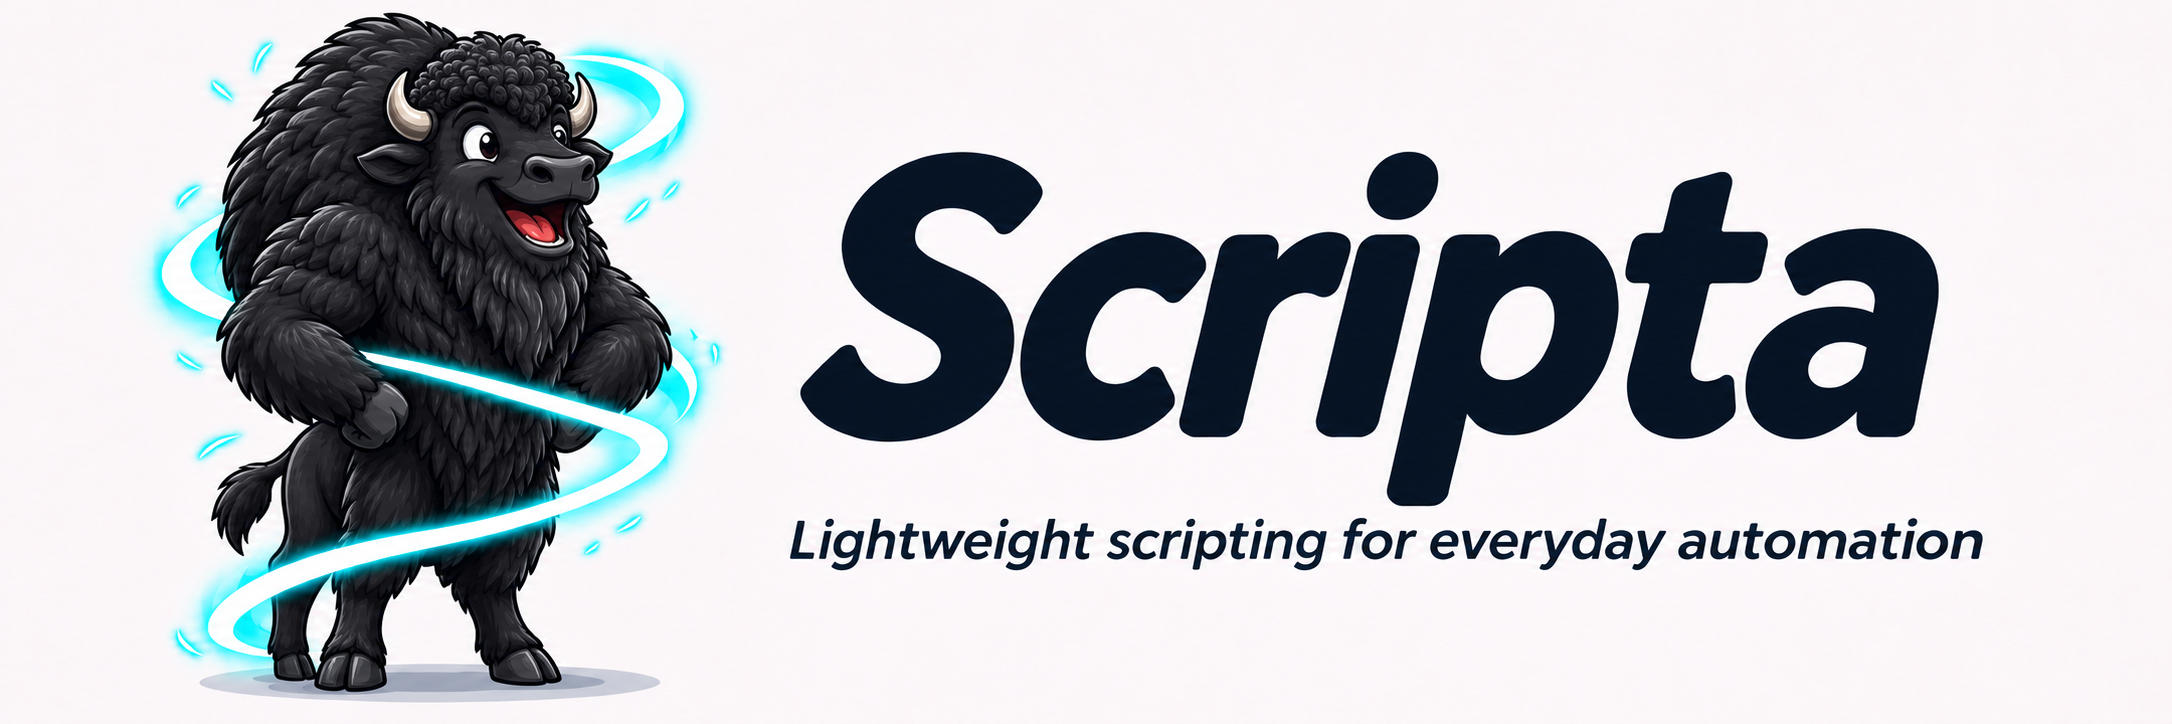
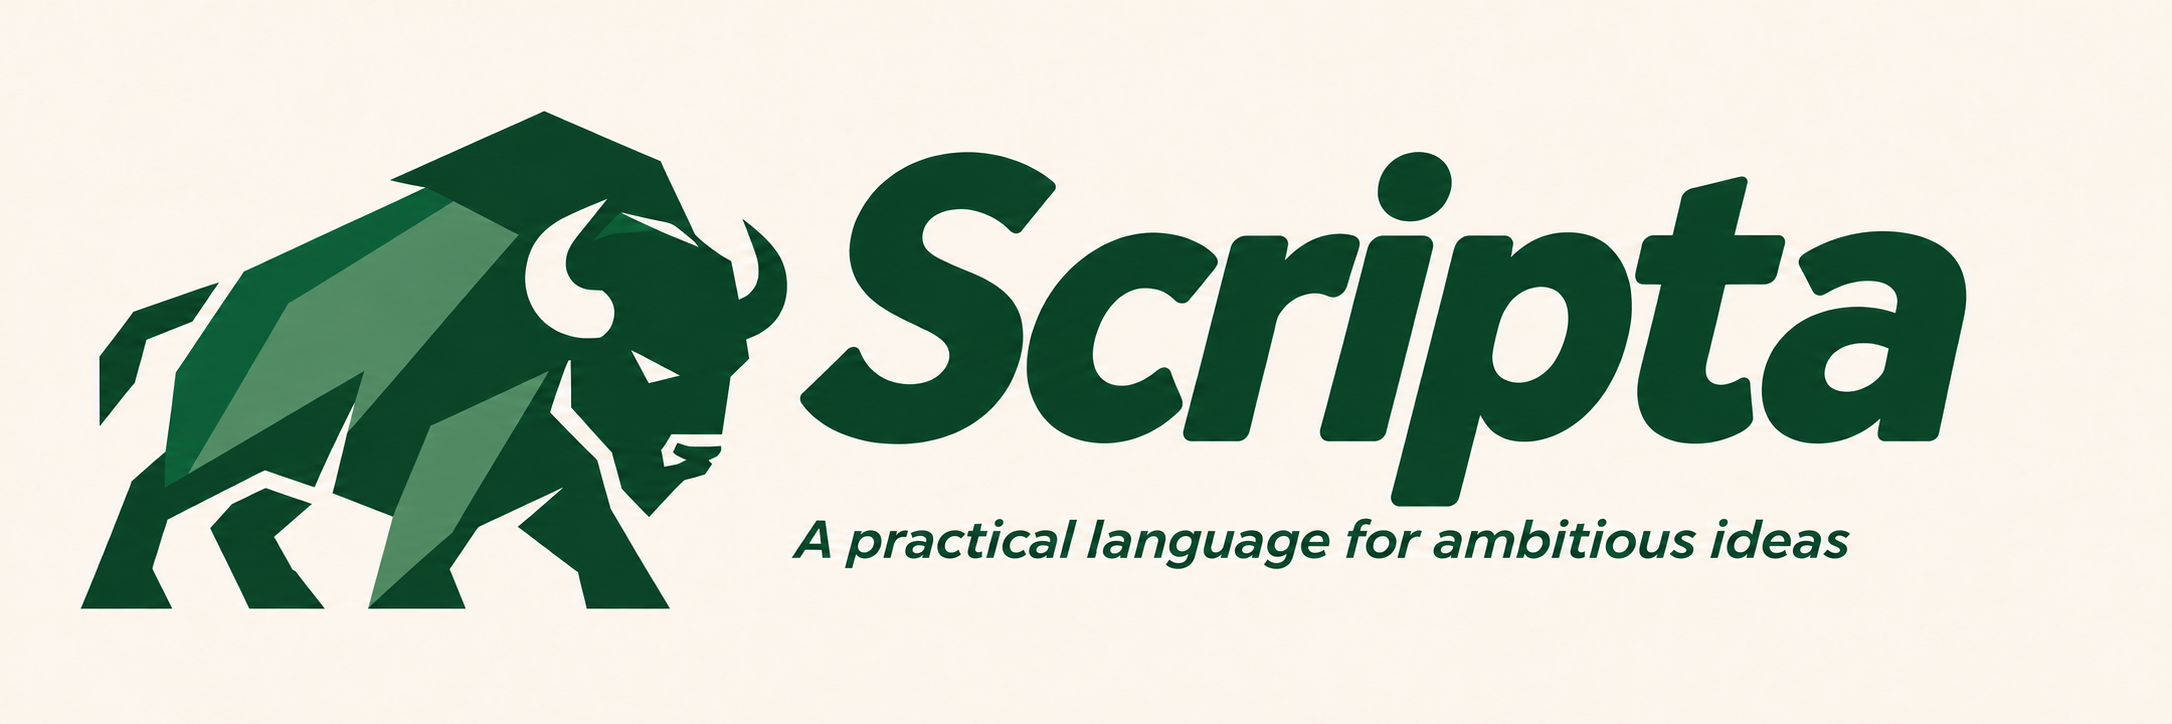
ban update

diff --git a/README.md b/README.md
@@ -1,5 +1,5 @@
 <h1 align="center">
-  <img src="docs/assets/scripta-banner.png" alt="Scripta — a standing black American bison wrapped in a glowing beam of light. Lightweight scripting for everyday automation." width="960">
+  <img src="docs/assets/scripta-banner.png" alt="Scripta — a dark green American bison logo formed from angular geometric shapes. A practical language for ambitious ideas." width="960">
 </h1>
 
 <p align="center">
